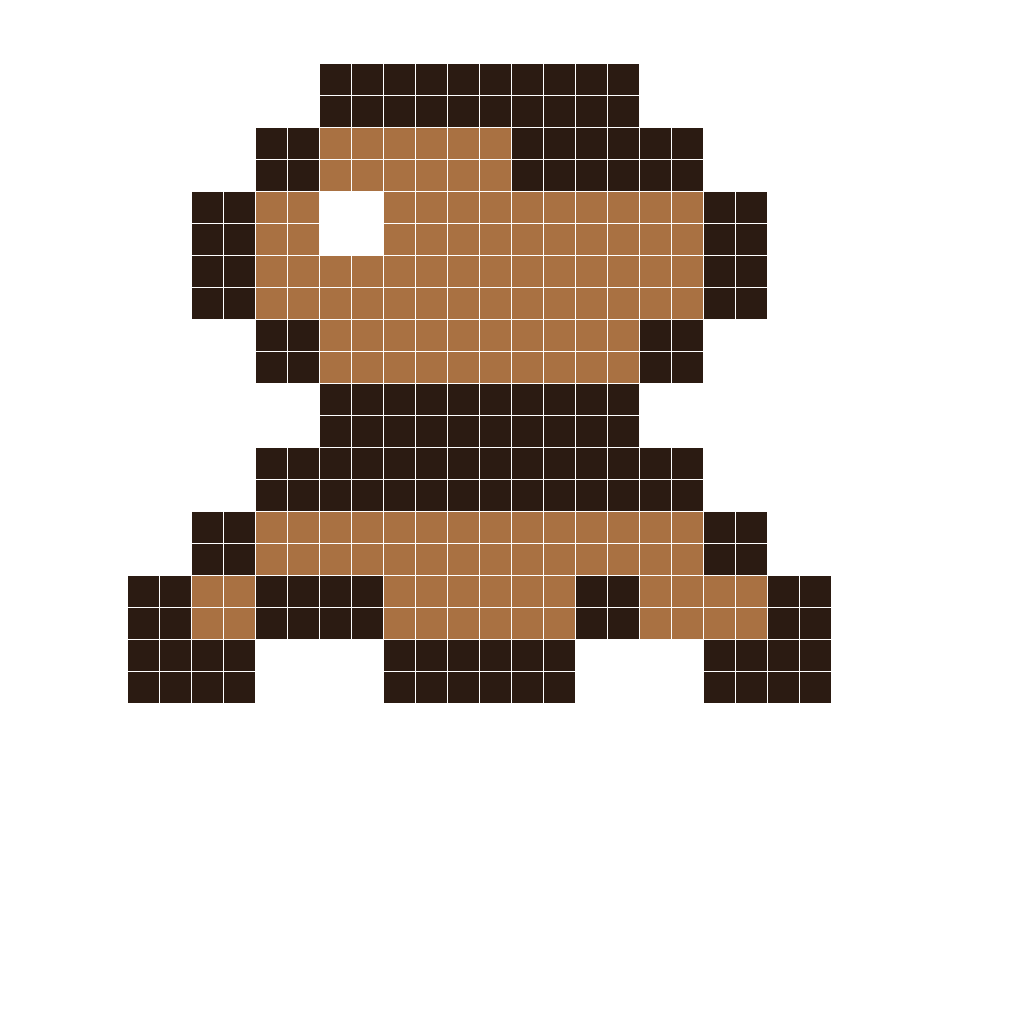
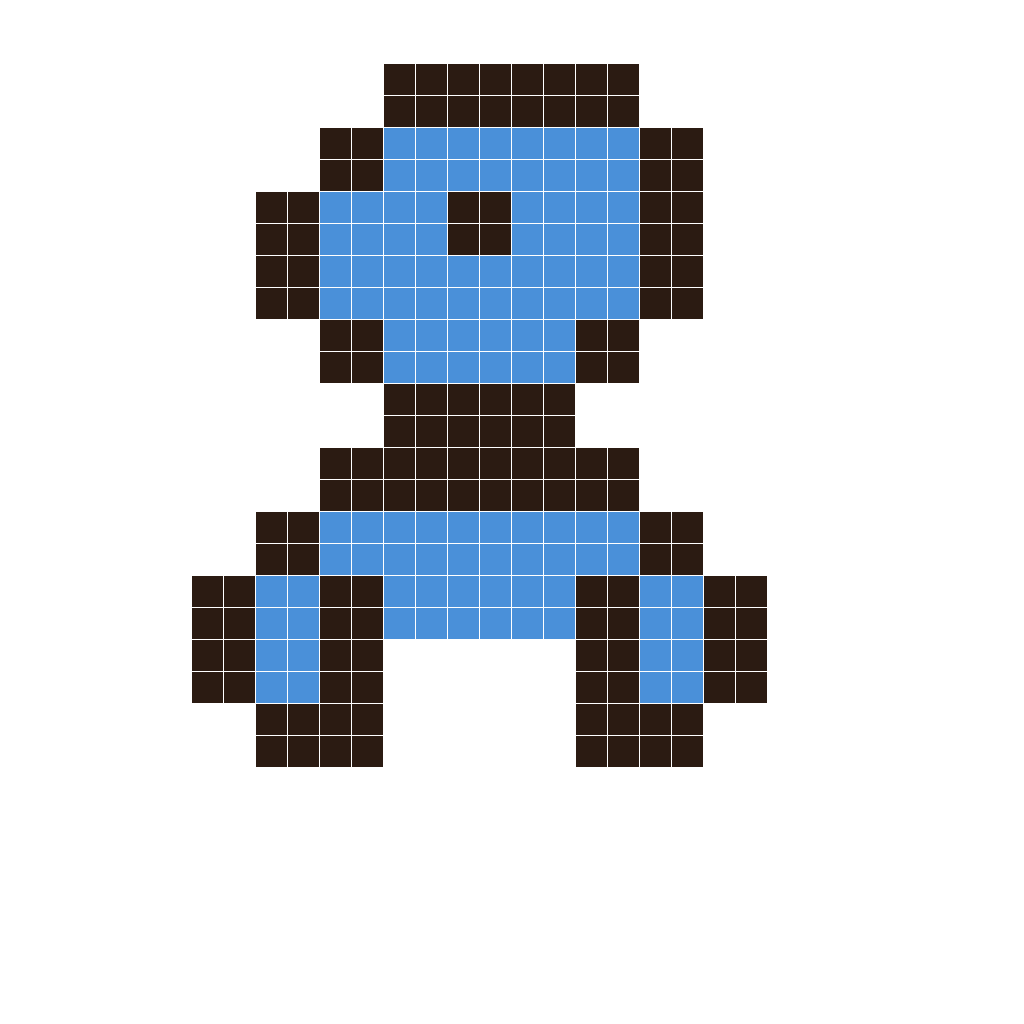
feat(pixel): 小动物形象扩到 22 个
- 新增猪、绵羊、鸭子、兔子、狐狸、熊、青蛙、猫头鹰
- 修正青蛙配色（原来误用灰色）、重画小鸟与鱼，改为蓝色系更易辨识
- 整身形象 14 → 22，素材 171 → 179；预算与测试同步

Changed region(s): [[0.1875, 0.0625, 0.75, 0.4375], [0.125, 0.4375, 0.8125, 0.75]]

diff --git a/scripts/pixel_style.py b/scripts/pixel_style.py
@@ -471,7 +471,10 @@ SUBJECT_COLORS = {
     "k": "#1F2430",
     "o": "#FF6D00",
     "p": "#FFB3C7",
+    "a": "#4A90D9",
+    "v": "#6D8EAE",
 }
+
 
 CAT_SPRITE = """
 ................
@@ -666,17 +669,17 @@ PUMPKIN_SPRITE = """
 
 BIRD_SPRITE = """
 ................
+......xxxx......
+.....xaaaax.....
+....xaaxaax.....
+....xaaaaax.....
+.....xaaax......
+......xxx.......
 .....xxxxx......
-....xbbbxxx.....
-...xbwbbbbbx....
-...xbbbbbbbx....
-....xbbbbbx.....
-.....xxxxx......
-....xxxxxxx.....
-...xbbbbbbbx....
-..xbxxbbbxbbx...
-..xx..xxx..xx...
-................
+....xaaaaax.....
+...xaxaaaxax....
+...xax...xax....
+....xx...xx.....
 ................
 ................
 ................
@@ -705,14 +708,14 @@ TREE_SPRITE = """
 FISH_SPRITE = """
 ................
 ................
-......xxxx......
-....xxbbbbxx....
-..xxbbbbbbbbxx..
-.xbbwbbbbbbbbbx.
-.xbbbbbbbbbbbbx.
-..xxbbbbbbbbxx..
-....xxbbbbxx....
-......xxxx......
+....xxxx........
+...xaaaax...xx..
+..xaaaaaaaxxaax.
+.xaawaaaawaaxax.
+.xaawaaaawaaax..
+..xaaaaaaaxxaax.
+...xaaaax...xx..
+....xxxx........
 ................
 ................
 ................
@@ -740,6 +743,159 @@ GHOST_SPRITE = """
 ................
 """
 
+
+PIG_SPRITE = """
+................
+...xx......xx...
+..xppx....xppx..
+..xpppxxxxpppx..
+.xpppppppppppx..
+.xppwppppwpppx..
+.xpppppppppppx..
+.xppxxxxxxpppx..
+.xppxpwwpxpppx..
+.xppxxxxxxpppx..
+.xpppppppppppx..
+..xpppppppppx...
+...xxxppppxx....
+......xxxx......
+................
+................
+"""
+
+SHEEP_SPRITE = """
+................
+....wwwwww......
+...wwwwwwww.....
+..wwwwwwwwww....
+..wwxxxxxxxxww..
+.wwxkkkkkkkxww..
+.wwxkwwkkwwkxw..
+.wwxkkkkkkkkxw..
+..wwxkkkkkxww...
+...wwwwwwww.....
+..wwwwwwwwww....
+.wwwwwwwwwwww...
+.wwwwwwwwwwww...
+..wwwwwwwwww....
+...wwwwwwww.....
+................
+"""
+
+DUCK_SPRITE = """
+................
+.....xxxxx......
+....xyyyyyx.....
+...xyyyyyyyx....
+...xywyywyyx....
+....xyyyyyx.....
+.....xooox......
+....xyyyyyx.....
+...xyyyyyyyx....
+..xyyyyyyyyyx...
+..xyyyyyyyyyx...
+...xyyyyyyyx....
+....xxxxxxxx....
+.....x..x.......
+....xx..xx......
+................
+"""
+
+RABBIT_SPRITE = """
+................
+...xx....xx.....
+..xwwx..xwwx....
+..xwwx..xwwx....
+..xwwx..xwwx....
+..xwwxxxxwwx....
+..xwwwwwwwwx....
+..xwwkwwkwwx....
+..xwwwwwwwwx....
+..xwwwppwwwx....
+..xwwwwwwwwx....
+...xwwwwwwx.....
+....xwwwwx......
+.....xxxx.......
+................
+................
+"""
+
+FOX_SPRITE = """
+................
+..x........x....
+..xx......xx....
+..xoxxxxxxox....
+..xoooooooox....
+..xowxooxwxox...
+..xoooooooox....
+...xowwwwwox....
+....xowwox......
+...xooooooox....
+..xoooooooooox..
+..xoowwwooooox..
+..xooowwwoooox..
+...xxoooooox....
+.....xxxxxx.....
+................
+"""
+
+BEAR_SPRITE = """
+................
+...xx......xx...
+..xbbx....xbbx..
+..xbbbbbbbbbx...
+.xbbbbbbbbbbbx..
+.xbbwbbbbwbbbx..
+.xbbbbbbbbbbbx..
+.xbbbwwwwbbbbx..
+.xbbbwppwbbbbx..
+.xbbbbwwbbbbbx..
+..xbbbbbbbbbx...
+...xbbbbbbbx....
+....xxxxxxx.....
+................
+................
+................
+"""
+
+FROG_SPRITE = """
+................
+...xx......xx...
+..xnnx....xnnx..
+..xnwnxxxxnwnx..
+..xnnnnnnnnnnx..
+.xnnnnnnnnnnnnx.
+.xnwwnnnnnnwwnx.
+.xnnnnnnnnnnnnx.
+.xnnnxxxxxxnnnx.
+.xnnnnnnnnnnnnx.
+..xnnnnnnnnnnx..
+...xxnnnnnnxx...
+.....xxxxxx.....
+................
+................
+................
+"""
+
+OWL_SPRITE = """
+................
+....xx....xx....
+...xccx..xccx...
+...xccccccccx...
+.xxccccccccccxx.
+.xcwwccccccwwcx.
+.xcwkwccccwkwcx.
+.xcwwccccccwwcx.
+.xccccooocccccx.
+.xccccooocccccx.
+..xccccccccccx..
+...xxxccccxxx...
+.....xxccxx.....
+......xxxx......
+................
+................
+"""
+
 #: (名字, 画稿)
 SUBJECTS = [
     ("cat", CAT_SPRITE),
@@ -756,6 +912,14 @@ SUBJECTS = [
     ("tree", TREE_SPRITE),
     ("fish", FISH_SPRITE),
     ("ghost", GHOST_SPRITE),
+    ("pig", PIG_SPRITE),
+    ("sheep", SHEEP_SPRITE),
+    ("duck", DUCK_SPRITE),
+    ("rabbit", RABBIT_SPRITE),
+    ("fox", FOX_SPRITE),
+    ("bear", BEAR_SPRITE),
+    ("frog", FROG_SPRITE),
+    ("owl", OWL_SPRITE),
 ]
 
 

diff --git a/tests/test_assets.py b/tests/test_assets.py
@@ -76,7 +76,7 @@ def test_slot_folders_are_numbered() -> None:
 def test_budget_matches_plan() -> None:
     """本轮交付的素材预算必须与 PLAN §6 一致：10 个槽位共 54 张。"""
     budget = {
-        SlotId.SKIN: 23,
+        SlotId.SKIN: 31,
         SlotId.HAIR: 32,
         SlotId.EYES: 40,
         SlotId.BROWS: 11,
@@ -88,7 +88,7 @@ def test_budget_matches_plan() -> None:
 
     for slot_id, expected in budget.items():
         assert len(catalog[slot_id]) == expected, f"{slot_id} 应有 {expected} 张，实际 {len(catalog[slot_id])} 张"
-    assert sum(len(assets) for assets in catalog.values()) == 171
+    assert sum(len(assets) for assets in catalog.values()) == 179
 
 
 def test_hair_does_not_cover_eyes() -> None:

diff --git a/tests/test_docs.py b/tests/test_docs.py
@@ -266,8 +266,8 @@ class TestPlanDocument(MarkdownDocChecks, unittest.TestCase):
                 declared_total = int(cells[1])
 
         self.assertEqual(len(per_slot), 6, "预算表应覆盖 6 个面部槽位")
-        self.assertEqual(sum(per_slot.values()), 153, "预算表各槽位之和应为 48")
-        self.assertEqual(declared_total, 153, "合计行应写 48，与逐项之和一致")
+        self.assertEqual(sum(per_slot.values()), 161, "预算表各槽位之和应为 48")
+        self.assertEqual(declared_total, 161, "合计行应写 48，与逐项之和一致")
 
 
 class TestCollaborationDocument(MarkdownDocChecks, unittest.TestCase):

diff --git a/docs/PLAN.md b/docs/PLAN.md
@@ -113,13 +113,13 @@ CREATE INDEX idx_works_created ON works(created_at DESC);
 
 | 槽位 | 数量 | 内容 |
 | --- | --- | --- |
-| skin | 23 | 美式卡通 2 + 手绘线稿 4 + 像素方块 3 张脸 + 14 个整身形象 |
+| skin | 31 | 美式卡通 2 + 手绘线稿 4 + 像素方块 3 张脸 + 22 个整身形象 |
 | hair | 32 | 美式卡通 15 + 手绘线稿 5 + 像素方块 12 |
 | eyes | 40 | 美式卡通 24 + 手绘线稿 8 + 像素方块 8 |
 | brows | 11 | 美式卡通 4 + 手绘线稿 4 + 像素方块 3 |
 | mouth | 33 | 美式卡通 17 + 手绘线稿 8 + 像素方块 8 |
 | glasses | 14 | 美式卡通 5 + 手绘线稿 4 + 像素方块 5 |
-| 合计 | 153 | 三套风格，只统计面部槽位 |
+| 合计 | 161 | 三套风格，只统计面部槽位 |
 
 另有 **18 张像素小装饰**（`extra` 槽位：小动物 / 水果 / 花朵 / 天气），不计入面部预算，素材总计 **141 张**。
 
